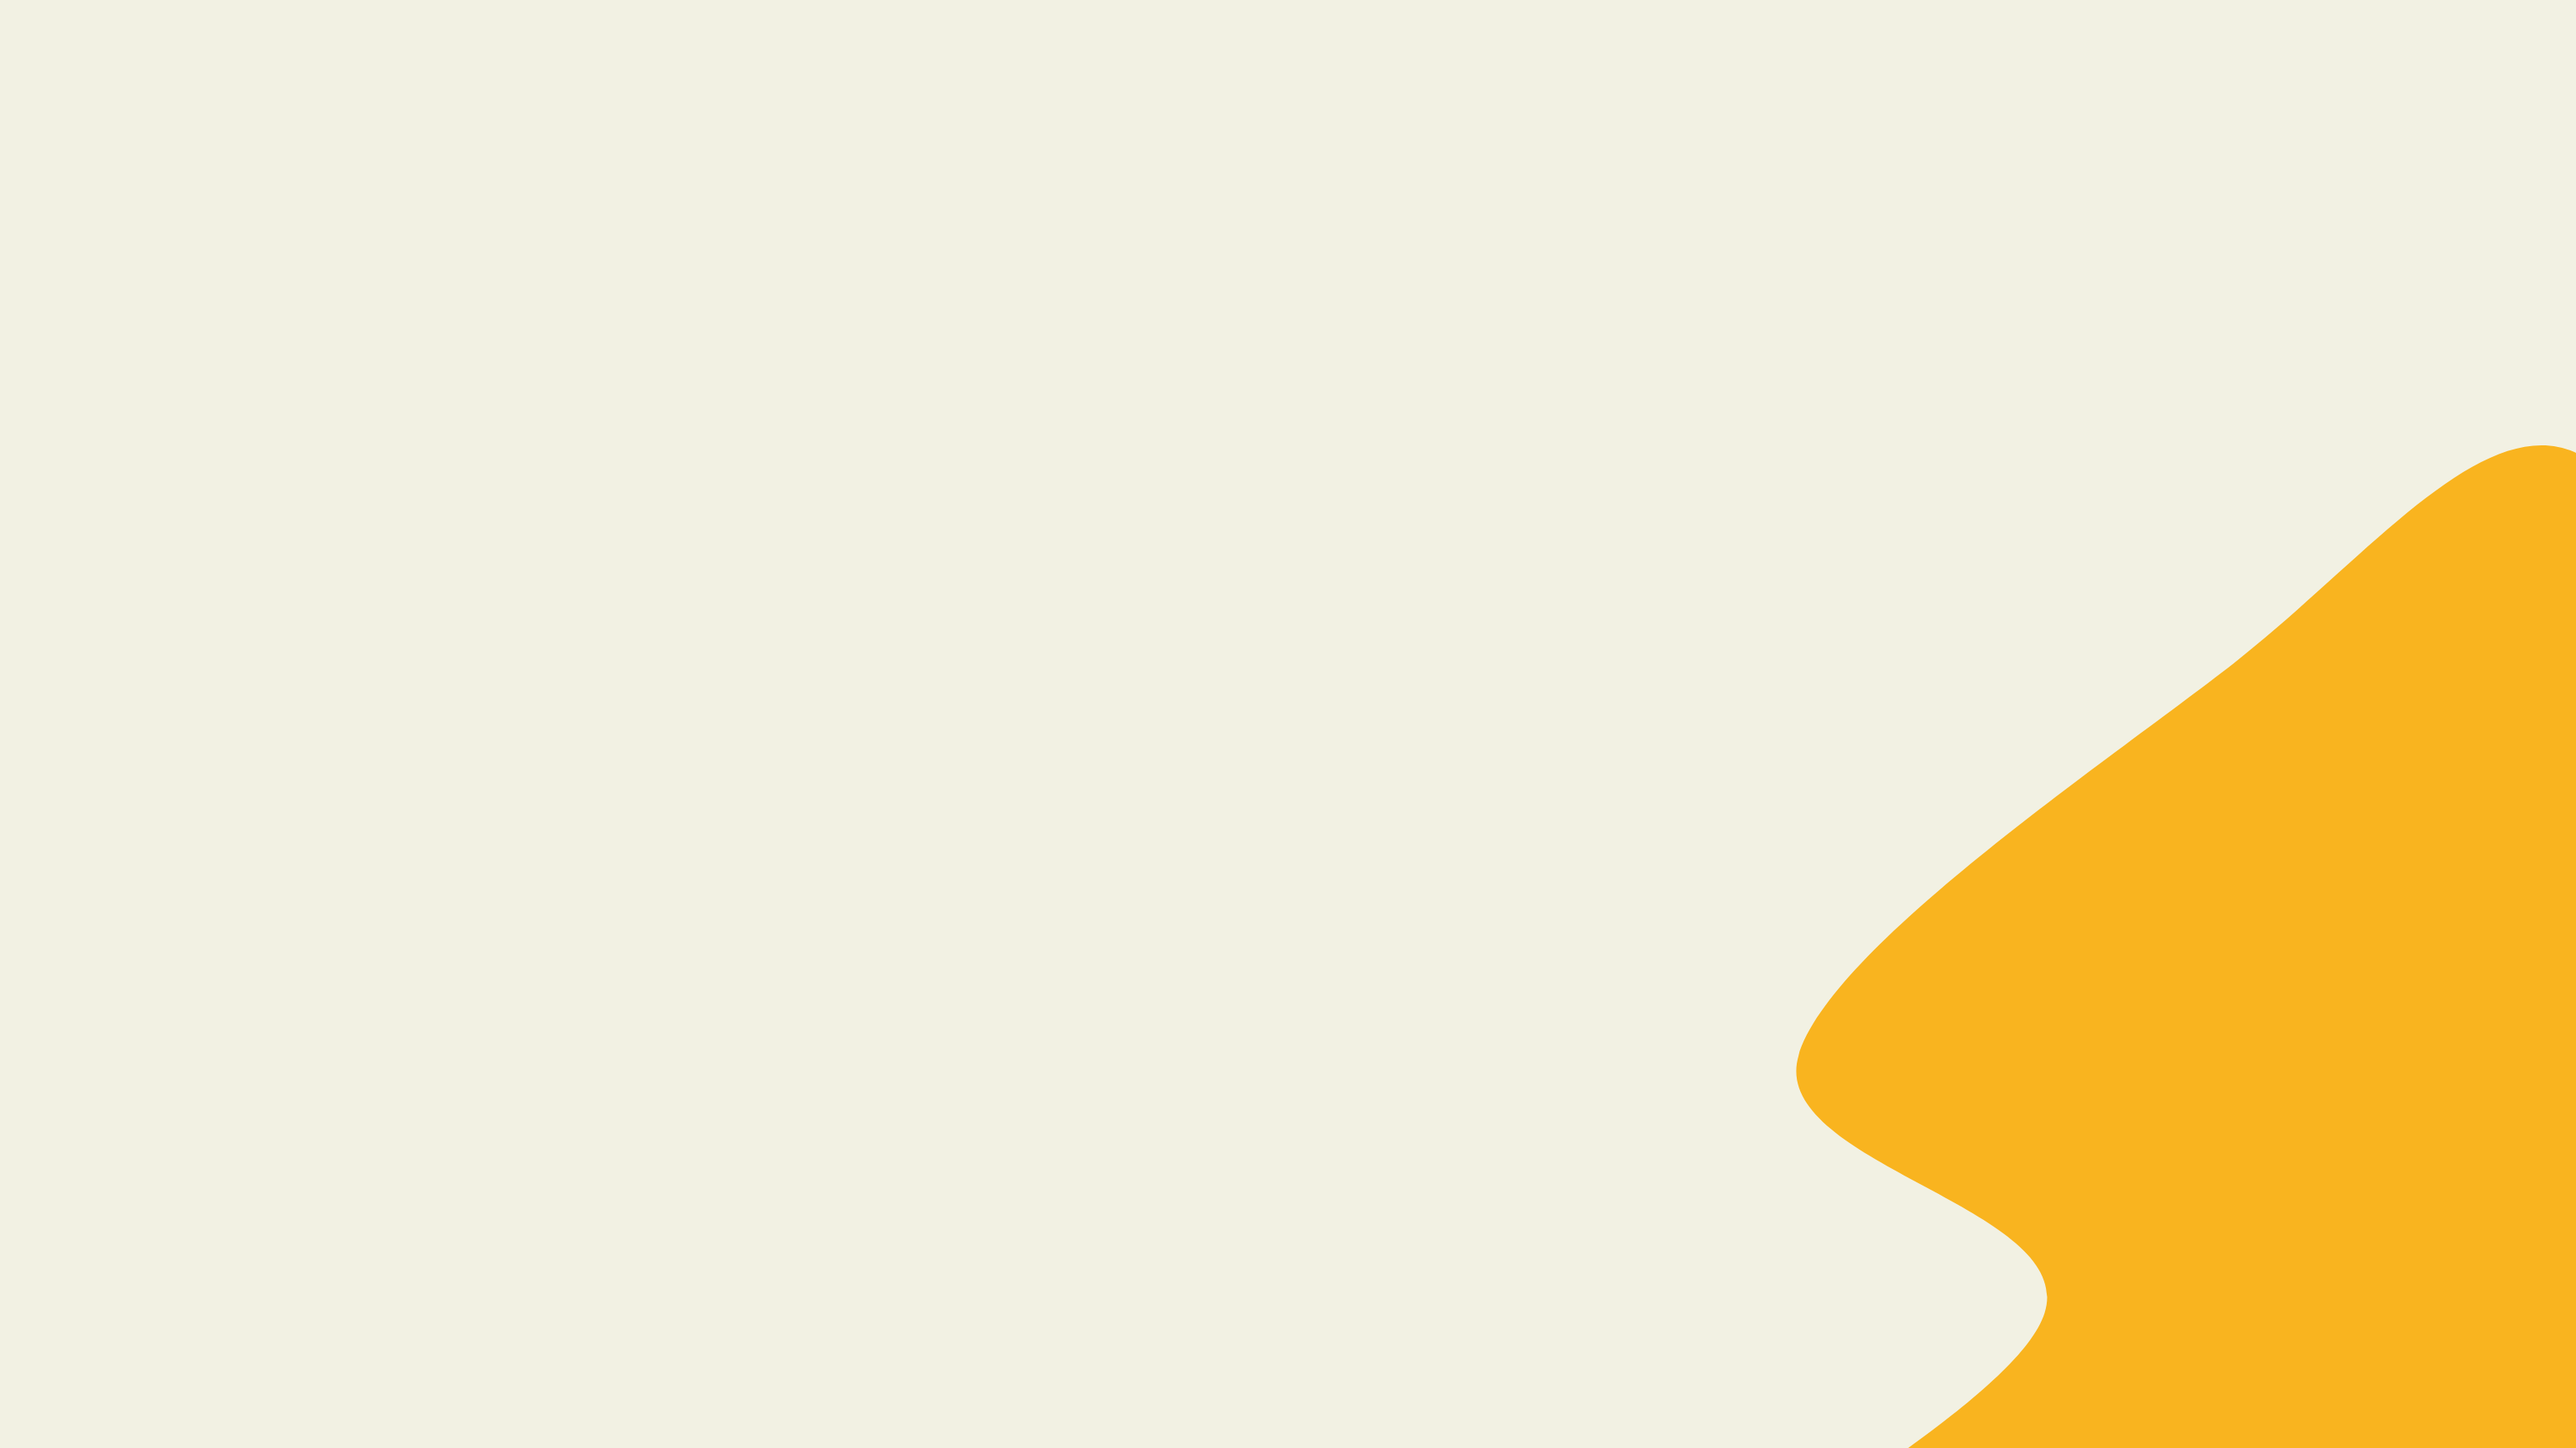
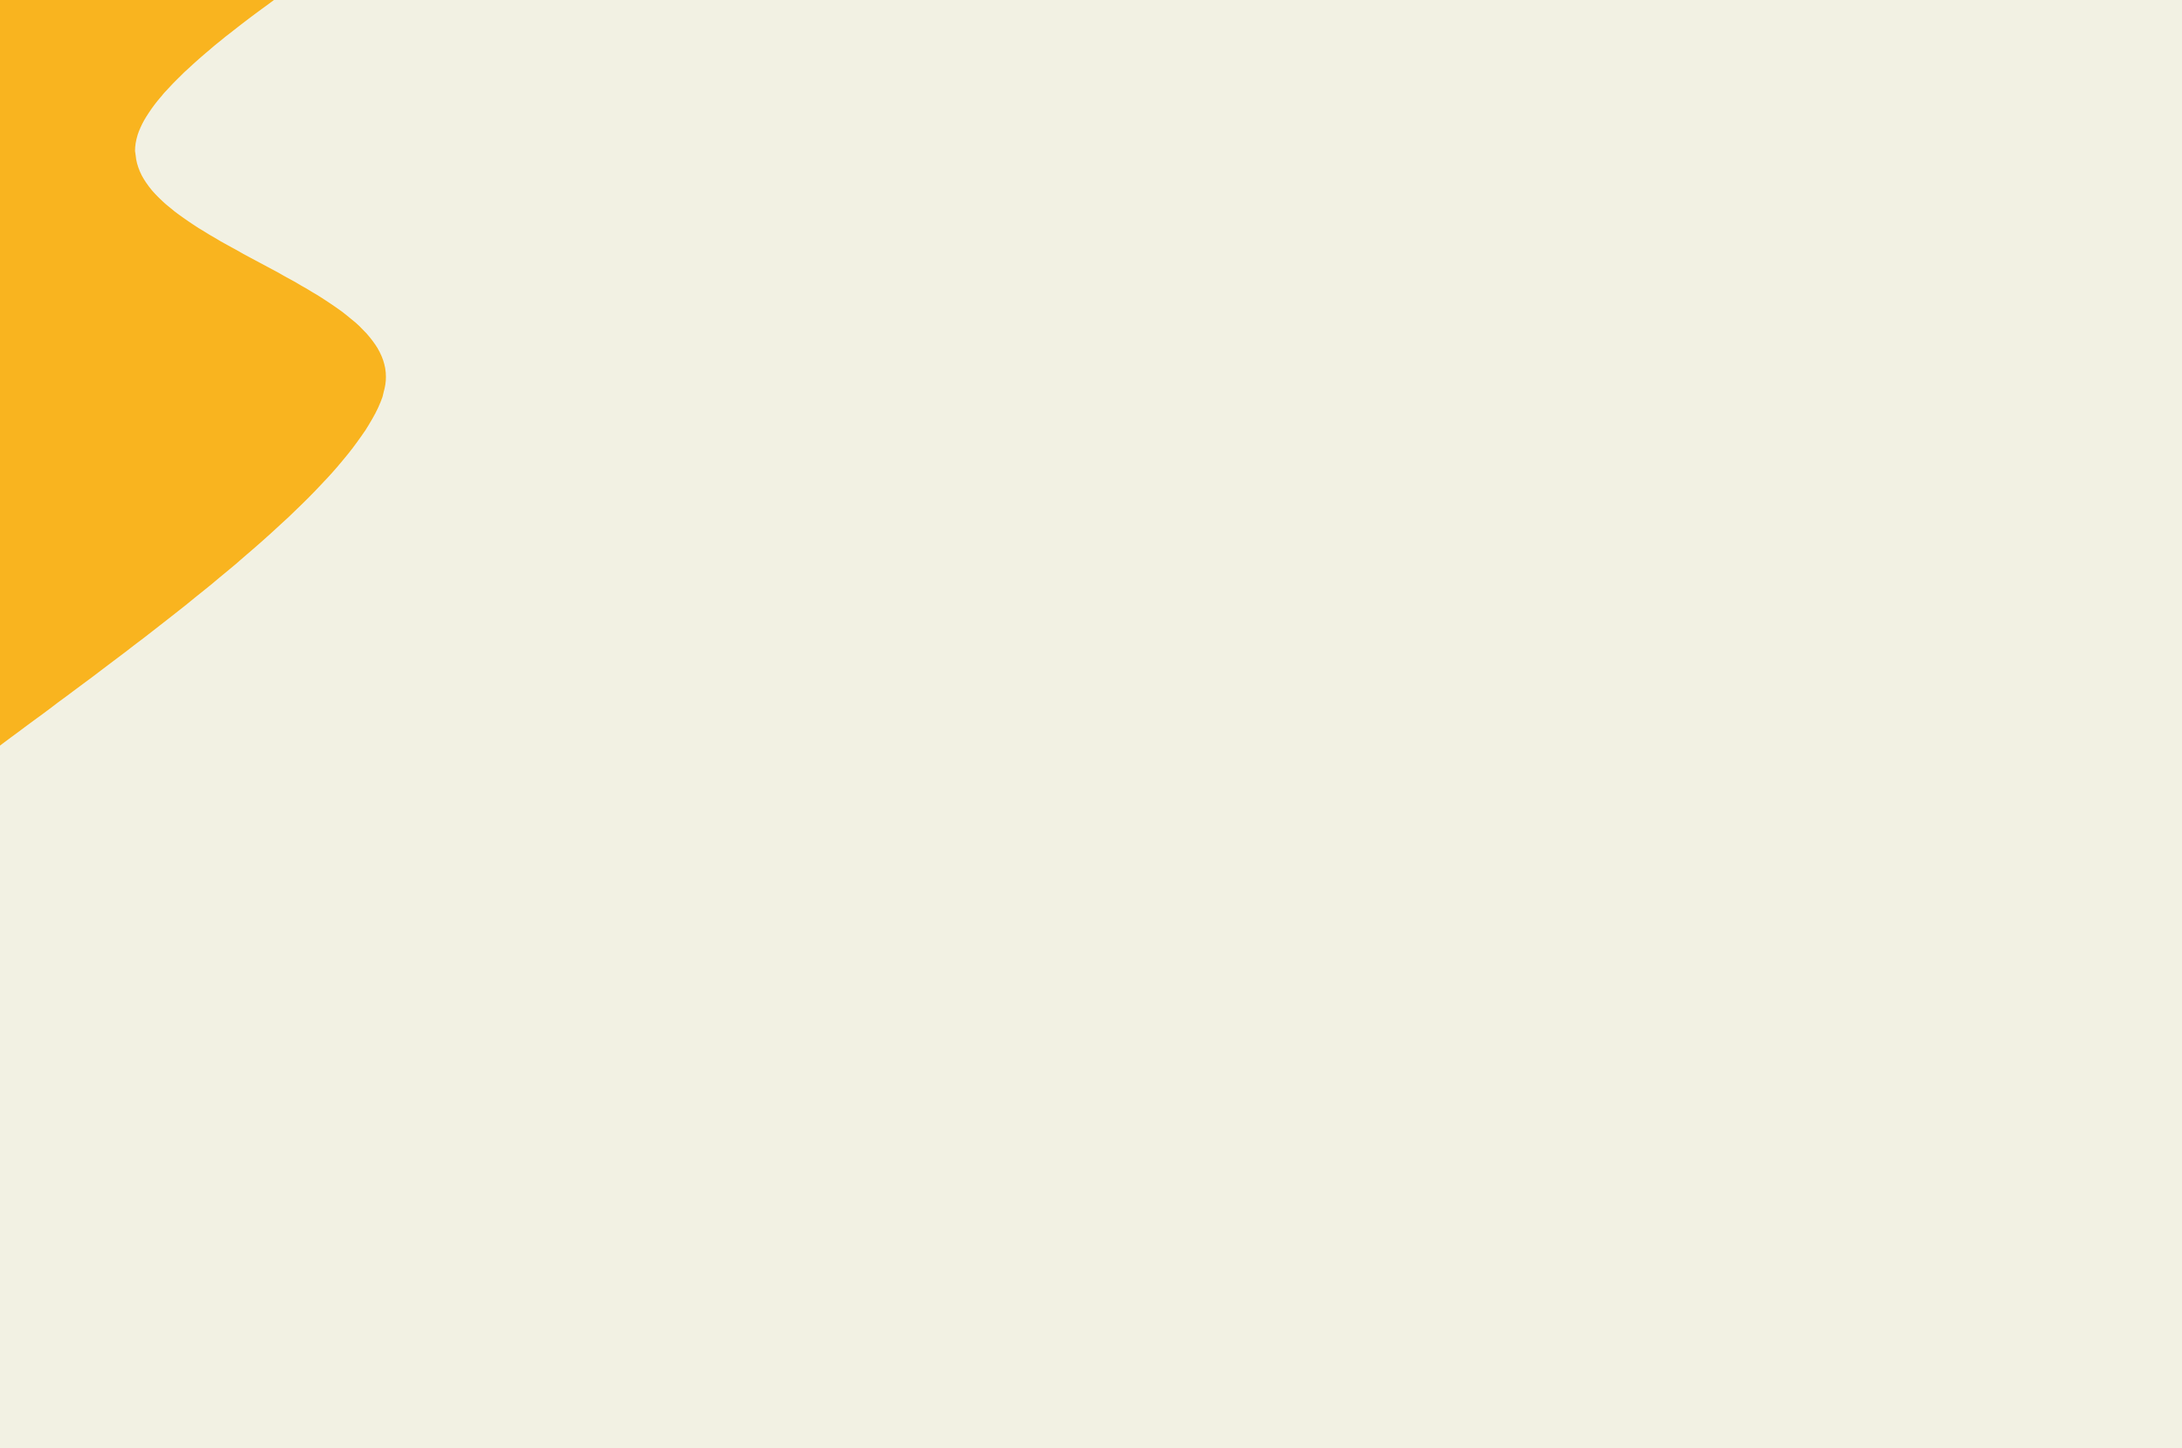
ftgt

Changed region(s): [[0.6828, 0.3116, 1.0, 1.0], [0.0, 0.0, 0.1862, 0.5297]]

diff --git a/src/components/navbar.jsx b/src/components/navbar.jsx
@@ -1,36 +1,32 @@
 import React from 'react'
+import { useNavigate } from 'react-router-dom'
 
+export default function Navbar() {
 
-export default function Navbar
-    () {
+    const navigate = useNavigate()
     return (
         <>
-             <header className="w-full sticky top-0 text-gray-600 body-font">
-                <div className="container w-full flex flex-wrap p-5 flex-col md:flex-row items-center md:justify-between ">
-                    <div>                    
-                            <a className=" flex title-font font-medium items-center text-gray-100 mb-4 md:mb-0 " href="/">
-                                <img className='pl-2 h-10 rounded-lg' src="..\public\logo.jpg" alt="oops" />
-
-                                <span className="ml-3 text-2xl">Buffered Reader</span>
-                            </a>
+            <header className="w-full fixed top-0 text-blue-600 pt-3 text-black">
+                <div className=" w-full flex flex-wrap flex-col md:flex-row items-center md:justify-between ">
+                    <div>
+                        <a className=" flex font-medium items-center  mb-4 md:mb-0 mx-3" onClick={() => { navigate("/") }}>
+                            <img className='pl-2 h-10 rounded-lg' src="/logo.jpg" alt="oops" />
+                            <span className="ml-3 text-2xl">Buffered Reader</span>
+                        </a>
                     </div>
 
-                    <nav className=" flex flex-wrap items-center text-base justify-between ">
-
-                        <a className="mr-16 scroll-m-2 text-gray-100 hover:underline underline-offset-8" href="#search">Blogs</a>                       
-                        <a className="mr-16 text-gray-100 hover:underline underline-offset-8" href="#search">Articles</a>
-                        <a className="mr-16 text-gray-100 hover:underline underline-offset-8" href="#search">Old_Versions</a>
-                        <a className="mr-16 text-gray-100 hover:underline underline-offset-8" href="#search">Abouts Us</a>
-                        <svg className="w-4 mr-40 h-4 text-gray-100 dark:text-gray-100" aria-hidden="true" xmlns="http://www.w3.org/2000/svg" fill="none" viewBox="0 0 20 20">
-                        <path stroke="currentColor" strokeLinecap="round" strokeLinejoin="round" strokeWidth="2" d="m19 19-4-4m0-7A7 7 0 1 1 1 8a7 7 0 0 1 14 0Z" />
-                        </svg>
+                    <nav className=" flex flex-wrap items-center text-base justify-between me-8 ms-4">
+                        <a className="  hover:underline underline-offset-8 mx-3 cursor-pointer">Blogs</a>
+                        <a className="  hover:underline underline-offset-8 mx-3 cursor-pointer">Articles</a>
+                        <a className="  hover:underline underline-offset-8 mx-3 cursor-pointer">Old_Versions</a>
+                        <a className="  hover:underline underline-offset-8 mx-3 cursor-pointer">Abouts Us</a>
+                        {/* <svg className="  dark:" aria-hidden="true" xmlns="http://www.w3.org/2000/svg" fill="none" viewBox="0 0 20 20">
+                            <path stroke="currentColor" strokeLinecap="round" strokeLinejoin="round" strokeWidth="2" d="m19 19-4-4m0-7A7 7 0 1 1 1 8a7 7 0 0 1 14 0Z" />
+                        </svg> */}
                     </nav>
-
-                    
-
                 </div>
-            </header> 
-            
+            </header>
+
         </>
     )
 }

diff --git a/src/components/landing page/hero.jsx b/src/components/landing page/hero.jsx
@@ -1,19 +1,18 @@
 import React from 'react'
-import bgImg from '/svgviewer-png-output.png'
+import bgImg from '/svgviewer-png-output-removebg-preview.png'
 
 export default function Hero(props) {
 
   window.addEventListener('resize', () => {
     const hero = document.querySelector("#hero")
-    hero ? hero.style.minHeight = `${window.innerHeight}px` : ''
+    hero ? hero.style.height = `${window.innerHeight * 0.9}px` : ''
   })
 
   return (
     
-     <div id="hero"  className='w-screen h-screen -mt-20 overflow-hidden' ref={props.homeRef}>
-     <div className='w-screen h-screen -mt-20'>
-         <img className='w-full' src="/eth.jpeg" alt="" />
-         <div className='absolute box-border top-1/3 w-2/4 left-16 pl-24 text-white font-sans'>
+     <div id="hero"  className=' overflow-hidden' ref={props.homeRef} style={{height:`${window.innerHeight*0.9}px`}}>
+     <div className=' w-full h-full flex items-center justify-end bg-orange-100' style={{backgroundImage:`url(${bgImg})` , backgroundSize:"cover"}}>
+         <div className=' box-border w-2/4 pe-24 text-black font-sans'>
              <div className='font-extrabold text-base tracking-widest mb-3'>Cse Society</div>
              <div className='font-extrabold text-5xl mb-5'>Buffered Reader</div>
              <div>Lorem ipsum dolor sit amet consectetur adipisicing elit. Repellat vel id minima earum dolorum. Qui beatae maxime enim illum molestiae animi, eveniet nemo vel, 

diff --git a/src/components/home.jsx b/src/components/home.jsx
@@ -2,6 +2,7 @@ import React, { useEffect, useRef, useState } from 'react'
 import Achievements from './landing page/achievements'
 import Hero from './landing page/hero'
 import Purpose from './landing page/purpose'
+import Navbar from './navbar'
 
 const home = () => {
 
@@ -18,8 +19,8 @@ const home = () => {
       const h1 = homeRef.current.clientHeight
       const h2 = purposeRef.current.clientHeight
       const h3 = achievementRef.current.clientHeight
-      scrollY >= h1*0.6 ? setisPurposeVisible(true) : ''
-      scrollY >= h1 + h2*0.4 ? setisAchieveVisible(true) : ''
+      scrollY >= h1*0.4 ? setisPurposeVisible(true) : ''
+      scrollY >= h1 + h2*0.3 ? setisAchieveVisible(true) : ''
     })() : ""
   }
 
@@ -32,6 +33,7 @@ const home = () => {
 
   return (
     <>
+    <Navbar/>
       <Hero homeRef={homeRef} />
       <Purpose purposeRef={purposeRef} isPurposeVisible={isPurposeVisible}/>
       <Achievements achievementRef={achievementRef} isAchieveVisible={isAchieveVisible} />
